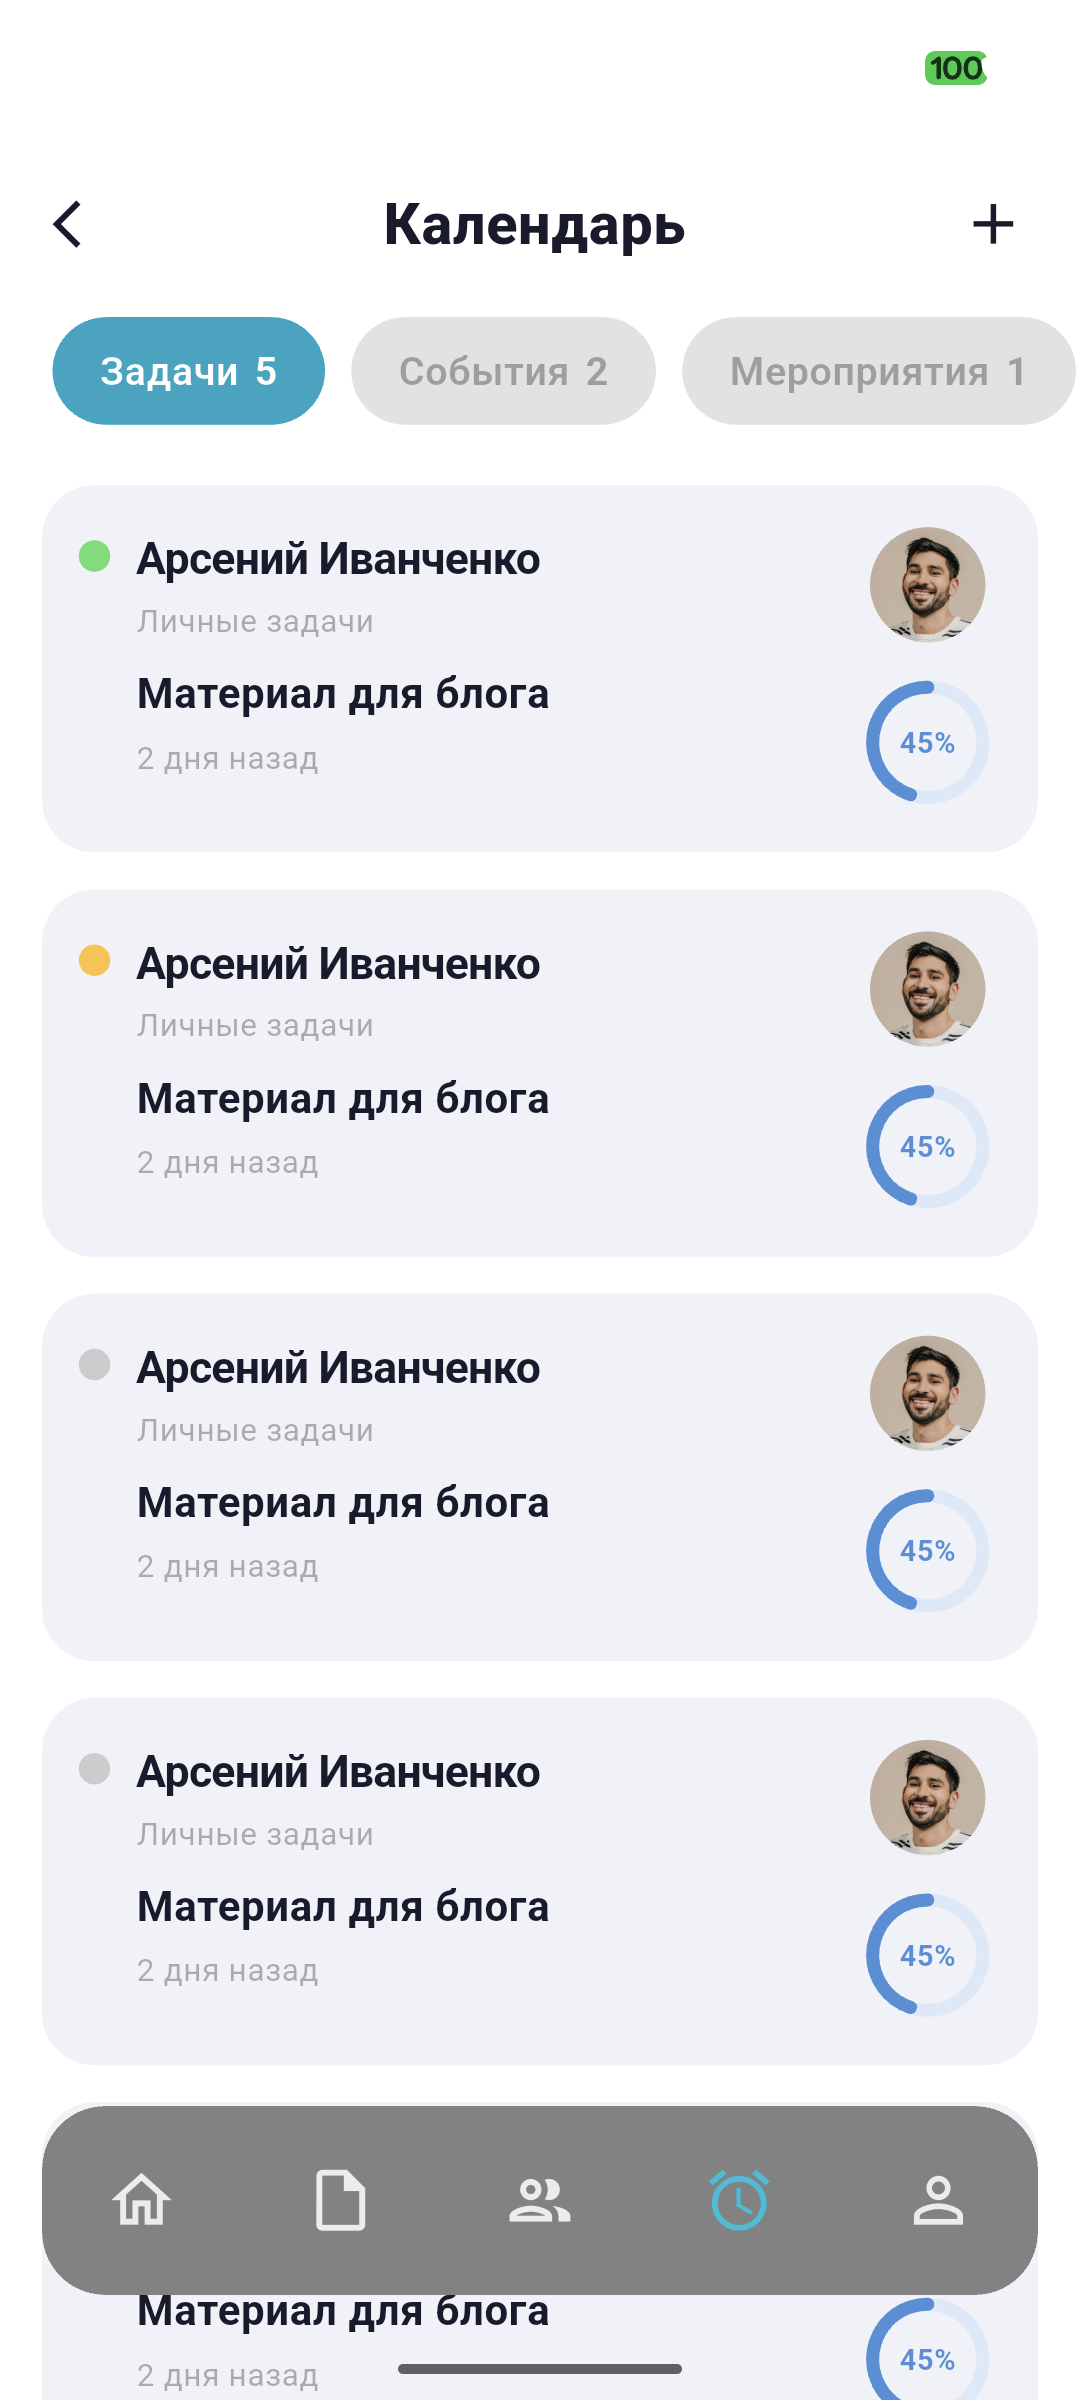
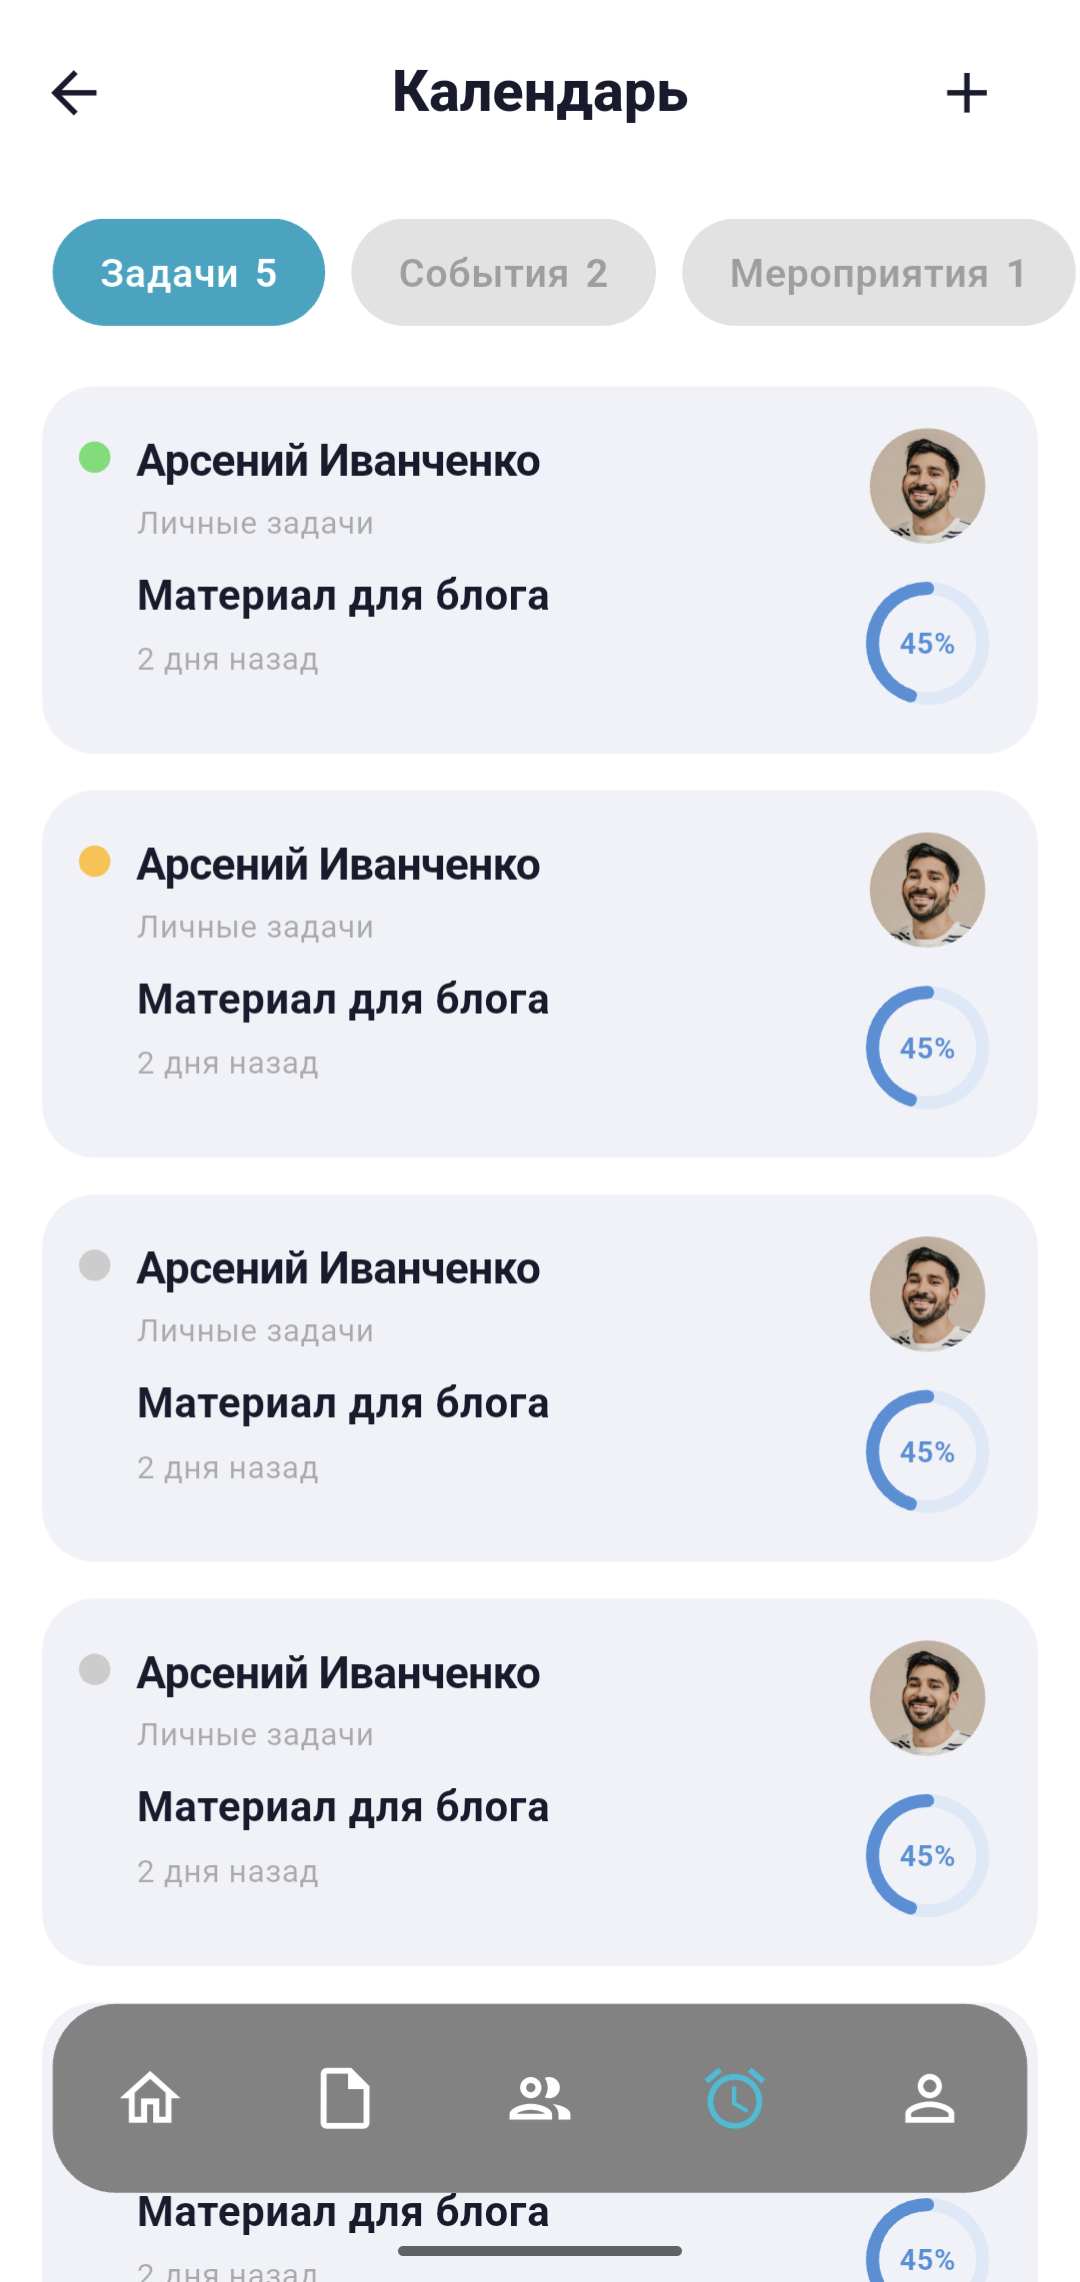
widgets update

diff --git a/lib/features/calendar/presentation/pages/calendar_page.dart b/lib/features/calendar/presentation/pages/calendar_page.dart
@@ -24,72 +24,99 @@ class CalendarPage extends StatelessWidget {
   }
 }
 
-class _CalendarView extends StatelessWidget {
+class _CalendarView extends StatefulWidget {
   const _CalendarView();
+
+  @override
+  State<_CalendarView> createState() => _CalendarViewState();
+}
+
+class _CalendarViewState extends State<_CalendarView> {
+  int index = 3;
 
   @override
   Widget build(BuildContext context) {
     return Scaffold(
-      backgroundColor: Colors.white,
-      body: Stack(
-        children: [
-          SafeArea(
-            bottom: false,
-            child: Column(
-              crossAxisAlignment: CrossAxisAlignment.start,
-              children: [
-                _AppBar(),
-                const SizedBox(height: 20),
-                _FilterBar(),
-                const SizedBox(height: 16),
-                const Expanded(child: _ItemsList()),
-              ],
-            ),
+      appBar: AppBar(
+        centerTitle: true,
+        title: Text(
+          "Календарь",
+          style: TextStyle(
+            fontSize: 22,
+            fontWeight: FontWeight.w800,
+            color: Color(0xFF1A1A2E),
           ),
-          const Positioned(
-            left: 0,
-            right: 0,
-            bottom: 0,
-            child: _FloatingBottomNav(),
-          ),
+        ),
+        leading: Icon(Icons.arrow_back, size: 26, color: Color(0xFF1A1A2E)),
+        backgroundColor: Colors.white,
+        actions: [
+          Icon(Icons.add, size: 26, color: Color(0xFF1A1A2E)),
+          SizedBox(width: 30),
         ],
+        scrolledUnderElevation: 0.0,
+      ),
+      backgroundColor: Colors.white,
+      extendBody: true,
+      body: SafeArea(
+        bottom: false,
+        child: Column(
+          crossAxisAlignment: CrossAxisAlignment.start,
+          children: [
+            // _AppBar(),
+            const SizedBox(height: 20),
+            _FilterBar(),
+            const SizedBox(height: 16),
+            const Expanded(child: _ItemsList()),
+          ],
+        ),
+      ),
+
+      // const Positioned(
+      //   left: 0,
+      //   right: 0,
+      //   bottom: 0,
+      //   child: _FloatingBottomNav(),
+      // ),
+      bottomNavigationBar: _FloatingBottomNav(
+        selectedIndex: index,
+        onDestinationSelected: (i) => setState(() => index = i),
       ),
     );
   }
 }
 
-class _AppBar extends StatelessWidget {
-  @override
-  Widget build(BuildContext context) {
-    return Padding(
-      padding: const EdgeInsets.fromLTRB(20, 18, 20, 0),
-      child: Row(
-        children: [
-          GestureDetector(
-            onTap: () => Navigator.of(context).maybePop(),
-            child: const Icon(
-              Icons.arrow_back_ios,
-              size: 22,
-              color: Color(0xFF1A1A2E),
-            ),
-          ),
-          const Expanded(
-            child: Text(
-              'Календарь',
-              textAlign: TextAlign.center,
-              style: TextStyle(
-                fontSize: 22,
-                fontWeight: FontWeight.w800,
-                color: Color(0xFF1A1A2E),
-              ),
-            ),
-          ),
-          const Icon(Icons.add, size: 26, color: Color(0xFF1A1A2E)),
-        ],
-      ),
-    );
-  }
-}
+// class _AppBar extends StatelessWidget {
+//   @override
+//   Widget build(BuildContext context) {
+//     return Padding(
+//       padding: const EdgeInsets.fromLTRB(20, 18, 20, 0),
+//       child: Row(
+//         children: [
+//           GestureDetector(
+//             onTap: () => Navigator.of(context).maybePop(),
+//             child: const Icon(
+//               Icons.arrow_back_ios,
+//               size: 22,
+//               color: Color(0xFF1A1A2E),
+//             ),
+//           ),
+//           const Expanded(
+//             child: Text(
+//               'Календарь',
+//               textAlign: TextAlign.center,
+//               style: TextStyle(
+//                 fontSize: 22,
+//                 fontWeight: FontWeight.w800,
+//                 color: Color(0xFF1A1A2E),
+//               ),
+//             ),
+//           ),
+//           const Icon(Icons.add, size: 26, color: Color(0xFF1A1A2E)),
+//         ],
+//       ),
+//     );
+//   }
+// }
 
 class _FilterBar extends StatelessWidget {
   @override
@@ -203,36 +230,60 @@ class _ItemsList extends StatelessWidget {
 }
 
 class _FloatingBottomNav extends StatelessWidget {
-  const _FloatingBottomNav();
+  final int selectedIndex;
+  final ValueChanged<int> onDestinationSelected;
+
+  const _FloatingBottomNav({
+    required this.selectedIndex,
+    required this.onDestinationSelected,
+  });
 
   @override
   Widget build(BuildContext context) {
     return SafeArea(
       child: Padding(
-        padding: const EdgeInsets.only(left: 16.0, right: 16.0, bottom: 16.0),
+        padding: const EdgeInsets.only(left: 20, right: 20, bottom: 10),
         child: ClipRRect(
-          borderRadius: BorderRadius.circular(24.0),
-          child: BackdropFilter(
-            filter: ImageFilter.blur(sigmaX: 20, sigmaY: 20),
-            child: Container(
+          borderRadius: BorderRadius.circular(24),
+          child: NavigationBarTheme(
+            data: NavigationBarThemeData(
+              backgroundColor: Color(0xFF828282),
+              indicatorColor: Colors.transparent,
               height: 72,
-              decoration: BoxDecoration(
-                color: const Color(0xFF828282),
-                borderRadius: BorderRadius.circular(24.0),
-              ),
-              child: Row(
-                mainAxisAlignment: MainAxisAlignment.spaceAround,
-                children: const [
-                  _NavIcon(icon: Icons.home_outlined, isActive: false),
-                  _NavIcon(
-                    icon: Icons.insert_drive_file_outlined,
-                    isActive: false,
-                  ),
-                  _NavIcon(icon: Icons.group_outlined, isActive: false),
-                  _NavIcon(icon: Icons.alarm, isActive: true),
-                  _NavIcon(icon: Icons.person_outline, isActive: false),
-                ],
-              ),
+              labelBehavior: NavigationDestinationLabelBehavior.alwaysHide,
+              iconTheme: WidgetStateProperty.resolveWith((states) {
+                final isSelected = states.contains(WidgetState.selected);
+                return IconThemeData(
+                  size: 28,
+                  color: isSelected ? Color(0xFF00BCD4) : Colors.white,
+                );
+              }),
+            ),
+            child: NavigationBar(
+              selectedIndex: selectedIndex,
+              onDestinationSelected: onDestinationSelected,
+              destinations: [
+                NavigationDestination(
+                  icon: Icon(Icons.home_outlined),
+                  label: 'Главная',
+                ),
+                NavigationDestination(
+                  icon: Icon(Icons.insert_drive_file_outlined),
+                  label: 'Документы',
+                ),
+                NavigationDestination(
+                  icon: Icon(Icons.group_outlined),
+                  label: 'Команда',
+                ),
+                NavigationDestination(
+                  icon: Icon(Icons.alarm),
+                  label: 'Календарь',
+                ),
+                NavigationDestination(
+                  icon: Icon(Icons.person_outline),
+                  label: 'Профиль',
+                ),
+              ],
             ),
           ),
         ),
@@ -241,16 +292,16 @@ class _FloatingBottomNav extends StatelessWidget {
   }
 }
 
-class _NavIcon extends StatelessWidget {
-  final IconData icon;
-  final bool isActive;
+// class _NavIcon extends StatelessWidget {
+//   final IconData icon;
+//   final bool isActive;
 
-  const _NavIcon({required this.icon, required this.isActive});
+//   const _NavIcon({required this.icon, required this.isActive});
 
-  @override
-  Widget build(BuildContext context) {
-    final color =
-        isActive ? const Color(0xFF00BCD4) : Colors.white.withOpacity(0.85);
-    return Icon(icon, size: 28, color: color);
-  }
-}
+//   @override
+//   Widget build(BuildContext context) {
+//     final color =
+//         isActive ? const Color(0xFF00BCD4) : Colors.white.withOpacity(0.85);
+//     return Icon(icon, size: 28, color: color);
+//   }
+// }
